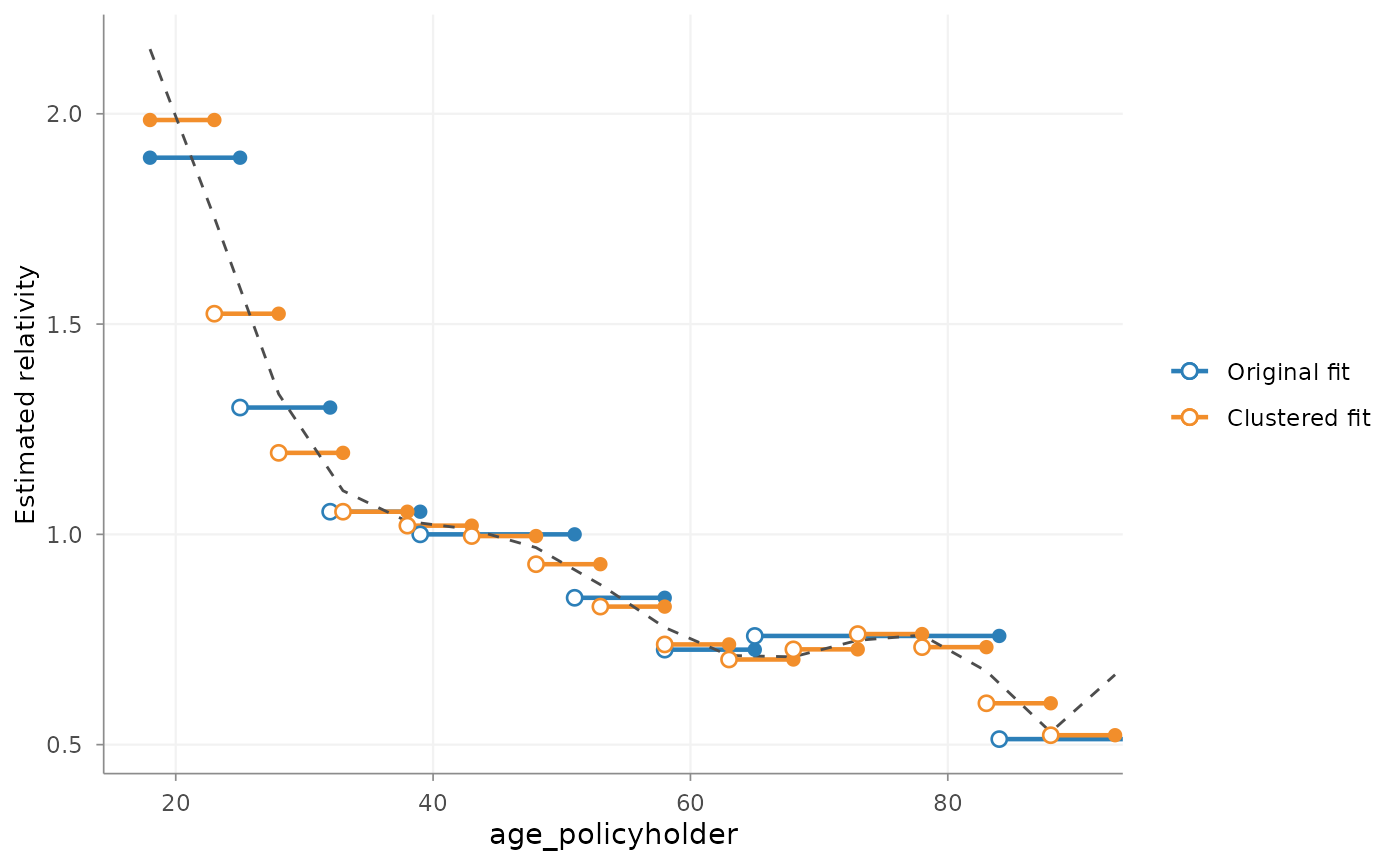
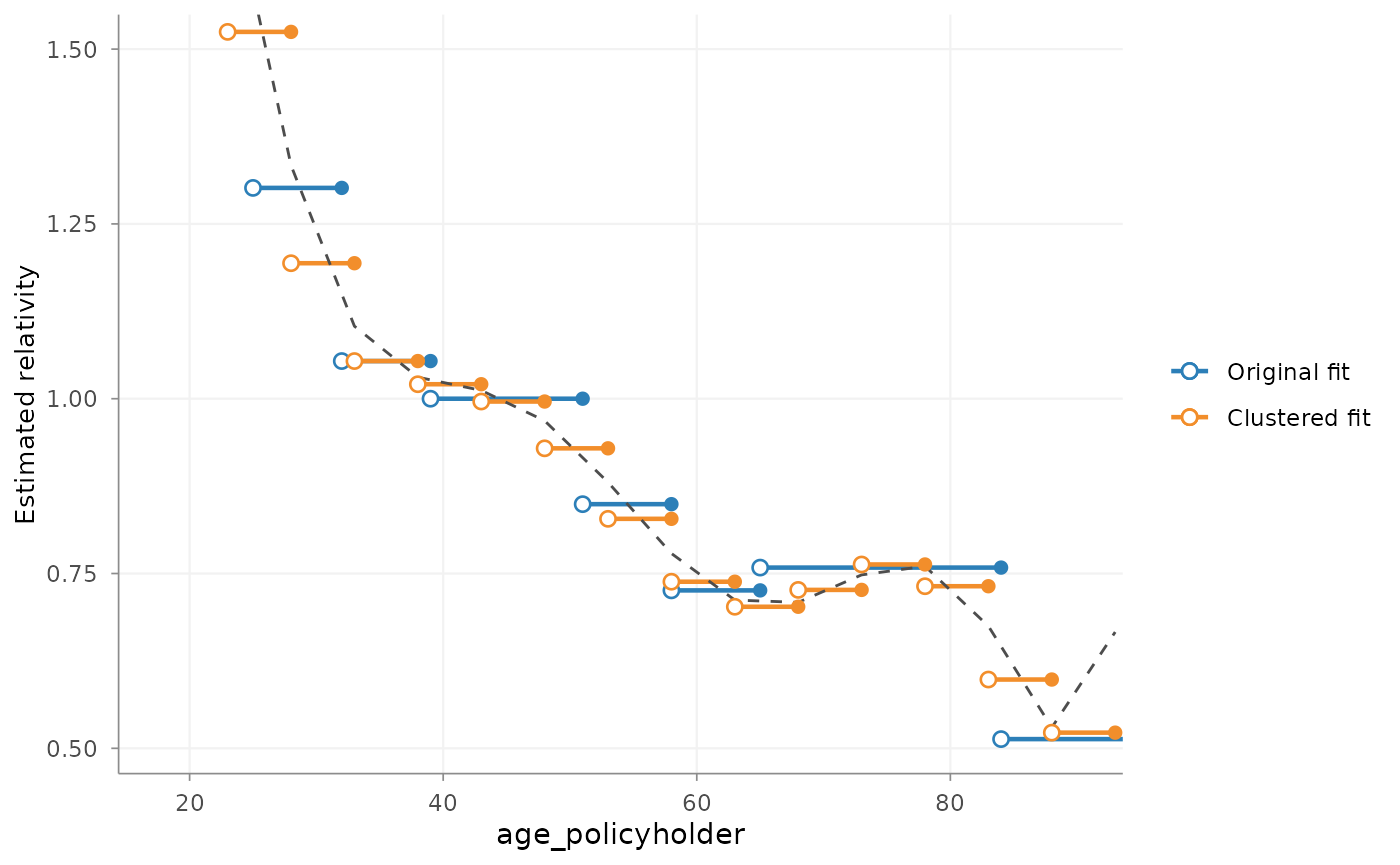
Deploying to gh-pages from @ MHaringa/insurancerating@958102f55684c67cb4f4d58a7188dbdb82992a3f 🚀

diff --git a/reference/autoplot.rating_refinement.html b/reference/autoplot.rating_refinement.html
@@ -73,6 +73,7 @@ the segment.</p>
 <span>  variable <span class="op">=</span> <span class="cn">NULL</span>,</span>
 <span>  step <span class="op">=</span> <span class="cn">NULL</span>,</span>
 <span>  x_max <span class="op">=</span> <span class="cn">NULL</span>,</span>
+<span>  y_max <span class="op">=</span> <span class="cn">NULL</span>,</span>
 <span>  remove_underscores <span class="op">=</span> <span class="cn">FALSE</span>,</span>
 <span>  rotate_angle <span class="op">=</span> <span class="cn">NULL</span>,</span>
 <span>  custom_theme <span class="op">=</span> <span class="cn">NULL</span>,</span>
@@ -112,6 +113,14 @@ affect <code><a href="refit.html">refit()</a></code>. It is useful when a small 
 otherwise compress the range containing most portfolio risks. For example,
 use <code>x_max = 1e7</code> to display insured values up to 10 million. This argument
 is only available for smoothing steps.</p></dd>
+
+
+<dt id="arg-y-max">y_max<a class="anchor" aria-label="anchor" href="#arg-y-max"></a></dt>
+<dd><p>Optional single finite numeric value. Maximum relativity
+displayed on the y-axis of a smoothing plot. Like <code>x_max</code>, this changes
+only the visible plotting range and does not alter the smoothing fit,
+refinement data or <code><a href="refit.html">refit()</a></code>. This argument is only available for
+smoothing steps.</p></dd>
 
 
 <dt id="arg-remove-underscores">remove_underscores<a class="anchor" aria-label="anchor" href="#arg-remove-underscores"></a></dt>

diff --git a/articles/refinement-workflow.html b/articles/refinement-workflow.html
@@ -294,7 +294,8 @@ variable</li>
 <span><span class="fu"><a href="https://ggplot2.tidyverse.org/reference/autoplot.html" class="external-link">autoplot</a></span><span class="op">(</span></span>
 <span>  <span class="va">ref</span>,</span>
 <span>  variable <span class="op">=</span> <span class="st">"age_policyholder_freq_cat"</span>,</span>
-<span>  x_max <span class="op">=</span> <span class="fl">90</span></span>
+<span>  x_max <span class="op">=</span> <span class="fl">90</span>,</span>
+<span>  y_max <span class="op">=</span> <span class="fl">1.5</span></span>
 <span><span class="op">)</span></span></code></pre></div>
 <p><img src="refinement-workflow_files/figure-html/unnamed-chunk-6-1.png" class="r-plt" alt="" width="700"></p>
 <p>This plot belongs to the <strong>pre-refit stage</strong>. It

diff --git a/reference/add_smoothing.html b/reference/add_smoothing.html
@@ -290,7 +290,7 @@ compatibility.</p>
 <span class="r-in"><span>  <span class="op">)</span></span></span>
 <span class="r-in"><span></span></span>
 <span class="r-in"><span><span class="co"># Limit the visible range without changing the fitted smoothing curve.</span></span></span>
-<span class="r-in"><span><span class="fu"><a href="https://ggplot2.tidyverse.org/reference/autoplot.html" class="external-link">autoplot</a></span><span class="op">(</span><span class="va">ref</span>, x_max <span class="op">=</span> <span class="fl">80</span><span class="op">)</span></span></span>
+<span class="r-in"><span><span class="fu"><a href="https://ggplot2.tidyverse.org/reference/autoplot.html" class="external-link">autoplot</a></span><span class="op">(</span><span class="va">ref</span>, x_max <span class="op">=</span> <span class="fl">80</span>, y_max <span class="op">=</span> <span class="fl">1.5</span><span class="op">)</span></span></span>
 <span class="r-in"><span><span class="op">}</span> <span class="co"># }</span></span></span>
 <span class="r-in"><span></span></span>
 </code></pre></div>

diff --git a/reference/autoplot.rating_refinement.md b/reference/autoplot.rating_refinement.md
@@ -22,6 +22,7 @@ autoplot(
   variable = NULL,
   step = NULL,
   x_max = NULL,
+  y_max = NULL,
   remove_underscores = FALSE,
   rotate_angle = NULL,
   custom_theme = NULL,
@@ -71,6 +72,15 @@ autoplot(
   compress the range containing most portfolio risks. For example, use
   `x_max = 1e7` to display insured values up to 10 million. This
   argument is only available for smoothing steps.
+
+- y_max:
+
+  Optional single finite numeric value. Maximum relativity displayed on
+  the y-axis of a smoothing plot. Like `x_max`, this changes only the
+  visible plotting range and does not alter the smoothing fit,
+  refinement data or
+  [`refit()`](https://mharinga.github.io/insurancerating/reference/refit.md).
+  This argument is only available for smoothing steps.
 
 - remove_underscores:
 

diff --git a/articles/refinement-workflow.md b/articles/refinement-workflow.md
@@ -225,7 +225,8 @@ print(ref)
 autoplot(
   ref,
   variable = "age_policyholder_freq_cat",
-  x_max = 90
+  x_max = 90,
+  y_max = 1.5
 )
 ```
 

diff --git a/reference/add_smoothing.md b/reference/add_smoothing.md
@@ -258,6 +258,6 @@ ref <- prepare_refinement(burn_unrestricted) |>
   )
 
 # Limit the visible range without changing the fitted smoothing curve.
-autoplot(ref, x_max = 80)
+autoplot(ref, x_max = 80, y_max = 1.5)
 } # }
 ```